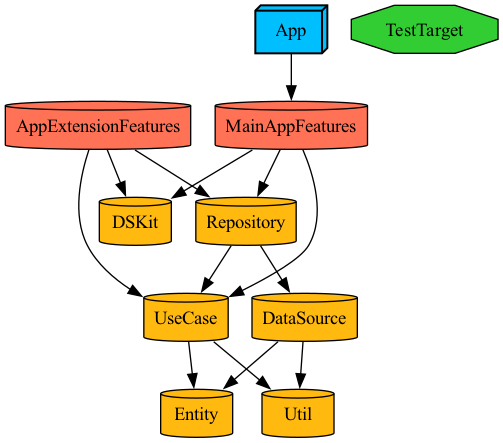
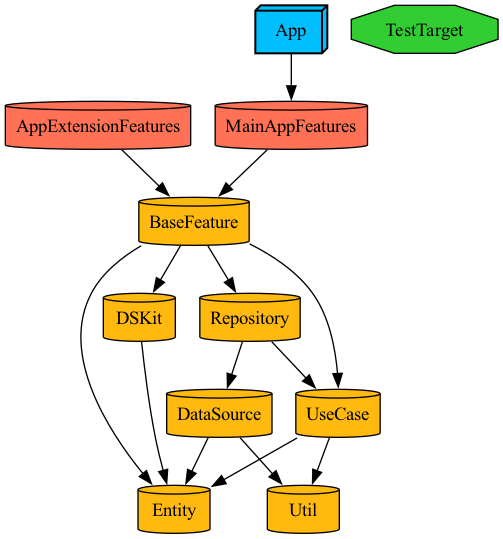
[CAP-001] 딥링크 이동구현완료
앱에서 인스타그램과 유튜브앱으로 이동할 수 있습니다.

diff --git a/Project.swift b/Project.swift
@@ -18,7 +18,7 @@ let project = Project(
             productName: DeploymentSettings.productName,
             bundleId: DeploymentSettings.bundleIdentifierPrefix,
             deploymentTargets: DeploymentSettings.deploymentVersion,
-            infoPlist: ShorcapInfoPlist.app,
+            infoPlist: ShorcapInfoPlist.mainApp,
             sources: ["Modules/App/Source/**"],
             resources: ["Modules/App/Resource/**"],
             dependencies: [
@@ -33,28 +33,47 @@ let project = Project(
             name: "MainAppFeatures",
             destinations: .iOS,
             product: .staticFramework,
-            bundleId: "\(DeploymentSettings.bundleIdentifierPrefix).features",
+            bundleId: "\(DeploymentSettings.bundleIdentifierPrefix).mainAppFeatures",
             deploymentTargets: DeploymentSettings.deploymentVersion,
             sources: ["Modules/Presentation/MainAppFeatures/Source/**"],
             resources: ["Modules/Presentation/MainAppFeatures/Resource/**"],
             dependencies: [
-                .target(name: "UseCase"),
-                .target(name: "Repository"),
-                .target(name: "DSKit"),
+                .target(name: "BaseFeature"),
             ]
         ),
         .target(
             name: "AppExtensionFeatures",
             destinations: .iOS,
             product: .staticFramework,
-            bundleId: "\(DeploymentSettings.bundleIdentifierPrefix).features",
+            bundleId: "\(DeploymentSettings.bundleIdentifierPrefix).extensionAppFeatures",
             deploymentTargets: DeploymentSettings.deploymentVersion,
             sources: ["Modules/Presentation/AppExtensionFeatures/Source/**"],
             resources: ["Modules/Presentation/AppExtensionFeatures/Resource/**"],
             dependencies: [
+                .target(name: "BaseFeature"),
+            ]
+        ),
+        .target(
+            name: "BaseFeature",
+            destinations: .iOS,
+            product: .framework,
+            bundleId: "\(DeploymentSettings.bundleIdentifierPrefix).baseFeature",
+            deploymentTargets: DeploymentSettings.deploymentVersion,
+            sources: ["Modules/Presentation/BaseFeature/Source/**"],
+            resources: ["Modules/Presentation/BaseFeature/Resource/**"],
+            dependencies: [
+                
                 .target(name: "UseCase"),
+                .target(name: "Entity"),
+                
                 .target(name: "Repository"),
+                
                 .target(name: "DSKit"),
+                
+                
+                // ThirdParty
+                .external(name: "RxSwift"),
+                .external(name: "RxCocoa"),
             ]
         ),
         .target(

diff --git a/Modules/Presentation/MainAppFeatures/Source/OnBoarding/HuntingShortFormScreen/HuntingShortFormVM.swift b/Modules/Presentation/MainAppFeatures/Source/OnBoarding/HuntingShortFormScreen/HuntingShortFormVM.swift
@@ -1,0 +1,48 @@
+//
+//  HuntingShortFormVM.swift
+//  MainAppFeatures
+//
+//  Created by choijunios on 8/10/24.
+//
+
+import UIKit
+import RxCocoa
+import Entity
+
+public class HuntingShortFormVM: HuntingShortFormViewModelable {
+    
+    // Output
+    public var alert: Driver<CapAlertVO>?
+    
+    // ViewModel native
+    private let deepLinkError: PublishRelay<String> = .init()
+    
+    public init() {
+        
+        // Output
+        alert = deepLinkError
+            .map { message in
+                CapAlertVO(title: "숏폼 찾으로 가기 오류", message: message)
+            }
+            .asDriver(onErrorJustReturn: .default)
+    }
+    
+    private let youtubeDeepLink: String = "youtube://www.youtube.com/shorts"
+    private let instagramDeepLink: String = "instagram://"
+    
+    public func openYoutubeApp() {
+        openDeepLink(url: .init(string: youtubeDeepLink)!)
+    }
+    
+    public func openInstagramApp() {
+        openDeepLink(url: .init(string: instagramDeepLink)!)
+    }
+    
+    private func openDeepLink(url: URL) {
+        if UIApplication.shared.canOpenURL(url) {
+            UIApplication.shared.open(url, options: [:], completionHandler: nil)
+        } else {
+            deepLinkError.accept("클릭한 앱을 열 수 없습니다.")
+        }
+    }
+}

diff --git a/Modules/Presentation/MainAppFeatures/Source/OnBoarding/HuntingShortFormScreen/HuntingShortFormVC.swift b/Modules/Presentation/MainAppFeatures/Source/OnBoarding/HuntingShortFormScreen/HuntingShortFormVC.swift
@@ -11,8 +11,16 @@ import RxCocoa
 import RxSwift
 import Entity
 import DSKit
+import BaseFeature
 
-public class HuntingShortFormVC: UIViewController {
+public protocol HuntingShortFormViewModelable: BaseVMable {
+    func openYoutubeApp()
+    func openInstagramApp()
+}
+
+public class HuntingShortFormVC: BaseVC {
+    
+    var viewModel: HuntingShortFormViewModelable?
     
     // Init
     
@@ -110,6 +118,34 @@ public class HuntingShortFormVC: UIViewController {
     
     private func setObservable() {
         
+    }
+    
+    public func bind(viewModel: HuntingShortFormViewModelable) {
+        
+        self.viewModel = viewModel
+        
+        // Input
+        youtubeButton
+            .rx.tap
+            .subscribe(onNext: { [viewModel] _ in
+                viewModel.openYoutubeApp()
+            })
+            .disposed(by: disposeBag)
+        
+        instagramButton
+            .rx.tap
+            .subscribe(onNext: { [viewModel] _ in
+                viewModel.openInstagramApp()
+            })
+            .disposed(by: disposeBag)
+        
+        // Output
+        viewModel
+            .alert?
+            .drive(onNext: { [weak self] alertVO in
+                self?.showAlert(alertVO: alertVO)
+            })
+            .disposed(by: disposeBag)
     }
 }
 

diff --git a/Modules/Domain/Entity/Source/Alert/File.swift b/Modules/Domain/Entity/Source/Alert/File.swift
@@ -1,0 +1,29 @@
+//
+//  CapAlertVO.swift
+//  Entity
+//
+//  Created by choijunios on 8/10/24.
+//
+
+import Foundation
+
+/// Alert를 표출할 수 있는 VO입니다.
+/// 해당 객체는 버튼의 title과 버튼클릭시 호출될 클로져묶음을 딕셔너리로 전달받을 수 있습니다.
+public struct CapAlertVO {
+    public typealias AlertActionInfo = [String: (() -> ())?]
+    
+    public let title: String
+    public let message: String
+    public let info: AlertActionInfo
+    
+    public init(title: String, message: String, info: AlertActionInfo = ["닫기": nil]) {
+        self.title = title
+        self.message = message
+        self.info = info
+    }
+    
+    public static let `default`: CapAlertVO = .init(
+        title: "시스템 오류",
+        message: "알 수 없는 오류가 발생했습니다."
+    )
+}

diff --git a/Modules/Presentation/BaseFeature/Source/BasePresentation.swift b/Modules/Presentation/BaseFeature/Source/BasePresentation.swift
@@ -1,0 +1,29 @@
+//
+//  BasePresentation.swift
+//  BaseFeature
+//
+//  Created by choijunios on 8/10/24.
+//
+
+import UIKit
+import RxCocoa
+import Entity
+
+/// Shortcap 기본 ViewModel인터페이 입니다.
+public protocol BaseVMable {
+    var alert: Driver<CapAlertVO>? { get }
+}
+
+/// Shortcap 기본 ViewController객체입니다.
+open class BaseVC: UIViewController {
+    public func showAlert(alertVO: CapAlertVO) {
+        let alert = UIAlertController(title: alertVO.title, message: alertVO.message, preferredStyle: .alert)
+        alertVO.info.forEach { (title, action) in
+            let alertAction = UIAlertAction(title: title, style: .default) { _ in
+                action?()
+            }
+            alert.addAction(alertAction)
+        }
+        present(alert, animated: true, completion: nil)
+    }
+}

diff --git a/Plugins/ConfigurationPlugin/ProjectDescriptionHelpers/InfoPlist.swift b/Plugins/ConfigurationPlugin/ProjectDescriptionHelpers/InfoPlist.swift
@@ -9,7 +9,7 @@ import ProjectDescription
 
 public enum ShorcapInfoPlist {
     
-    public static let app: InfoPlist = .extendingDefault(with: [
+    public static let mainApp: InfoPlist = .extendingDefault(with: [
         "NSAppTransportSecurity" : [
             "NSAllowsArbitraryLoads" : true
         ],
@@ -24,6 +24,17 @@ public enum ShorcapInfoPlist {
                     ]
                 ]
             ]
+        ],
+        
+        // 화면을 Portrait으로 고정
+        "UISupportedInterfaceOrientations": [
+            "UIInterfaceOrientationPortrait"
+        ],
+        
+        // URLScheme
+        "LSApplicationQueriesSchemes": [
+            "youtube",
+            "instagram"
         ]
     ])
 }

diff --git a/Modules/App/Source/SceneDelegate.swift b/Modules/App/Source/SceneDelegate.swift
@@ -17,7 +17,10 @@ class SceneDelegate: UIResponder, UIWindowSceneDelegate {
     
         window = UIWindow(windowScene: windowScene)
         
-        window?.rootViewController = HuntingShortFormVC()
+        let viewModel = HuntingShortFormVM()
+        let viewController = HuntingShortFormVC()
+        viewController.bind(viewModel: viewModel)
+        window?.rootViewController = viewController
         window?.makeKeyAndVisible()
     }
 

diff --git a/Modules/Presentation/DSKit/Source/CommonUI/Button/CAPImageButton.swift b/Modules/Presentation/DSKit/Source/CommonUI/Button/CAPImageButton.swift
@@ -103,7 +103,7 @@ public class CAPImageButton: TappableUIView {
             .subscribe(onNext: { [weak self] _ in
                 guard let self else { return }
                 setAppearanceToAccent()
-                UIView.animate(withDuration: 0.35) { [weak self] in
+                UIView.animate(withDuration: 0.45) { [weak self] in
                     self?.setAppearanceToIdle()
                 }
             })
